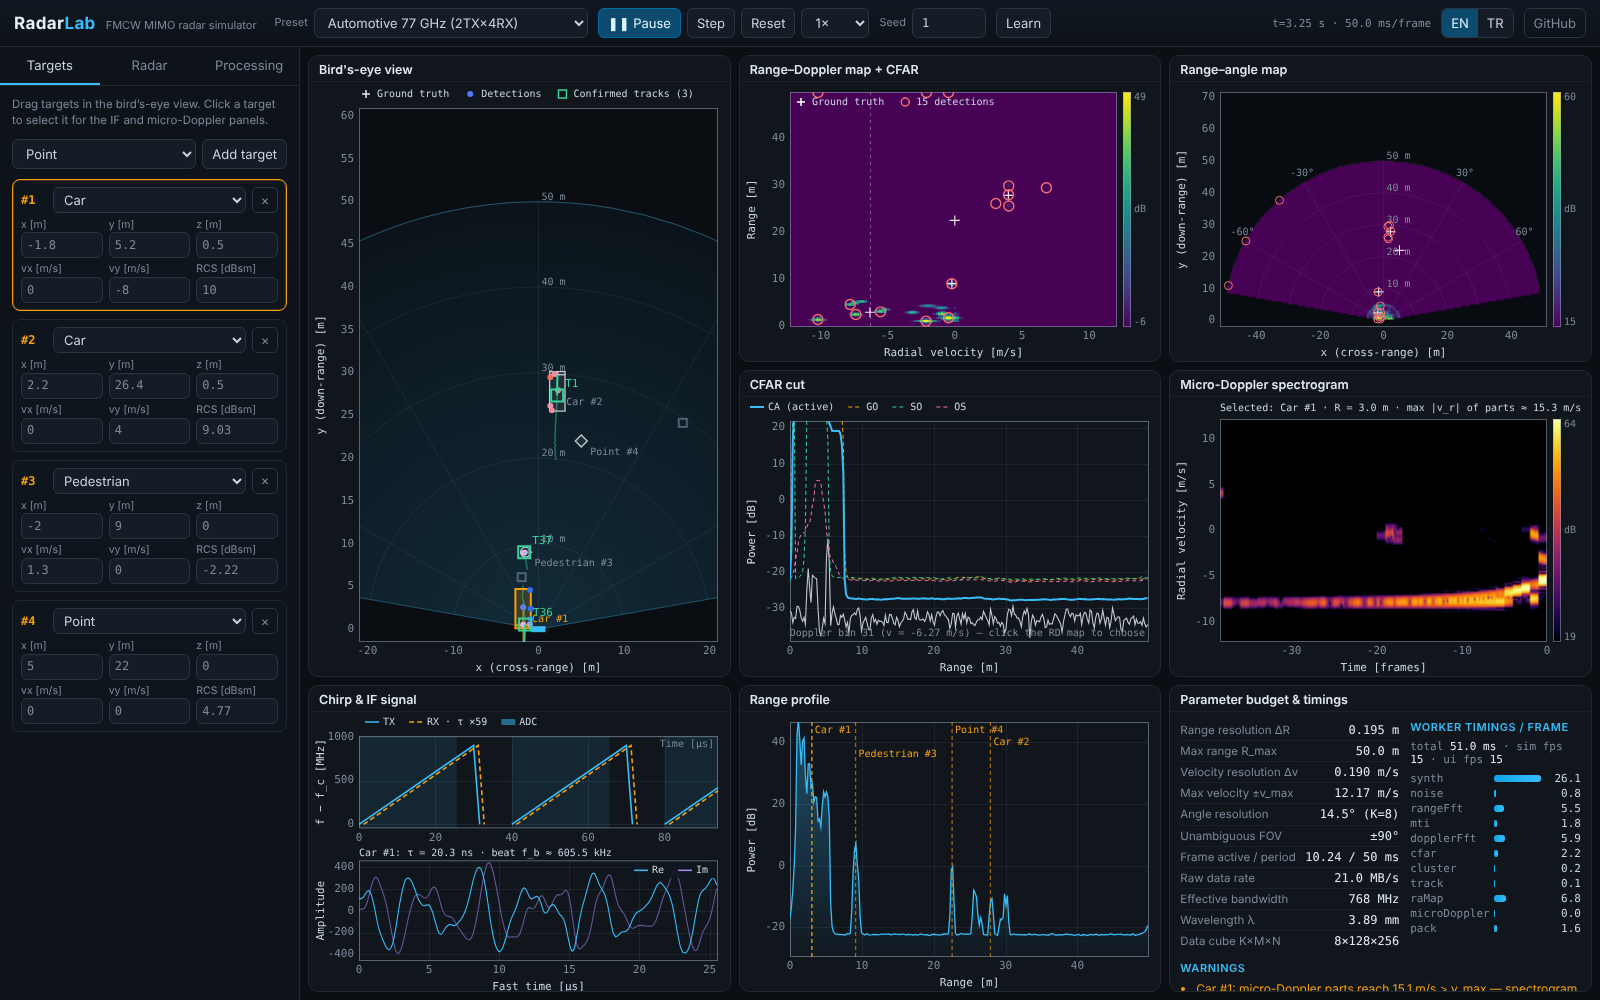
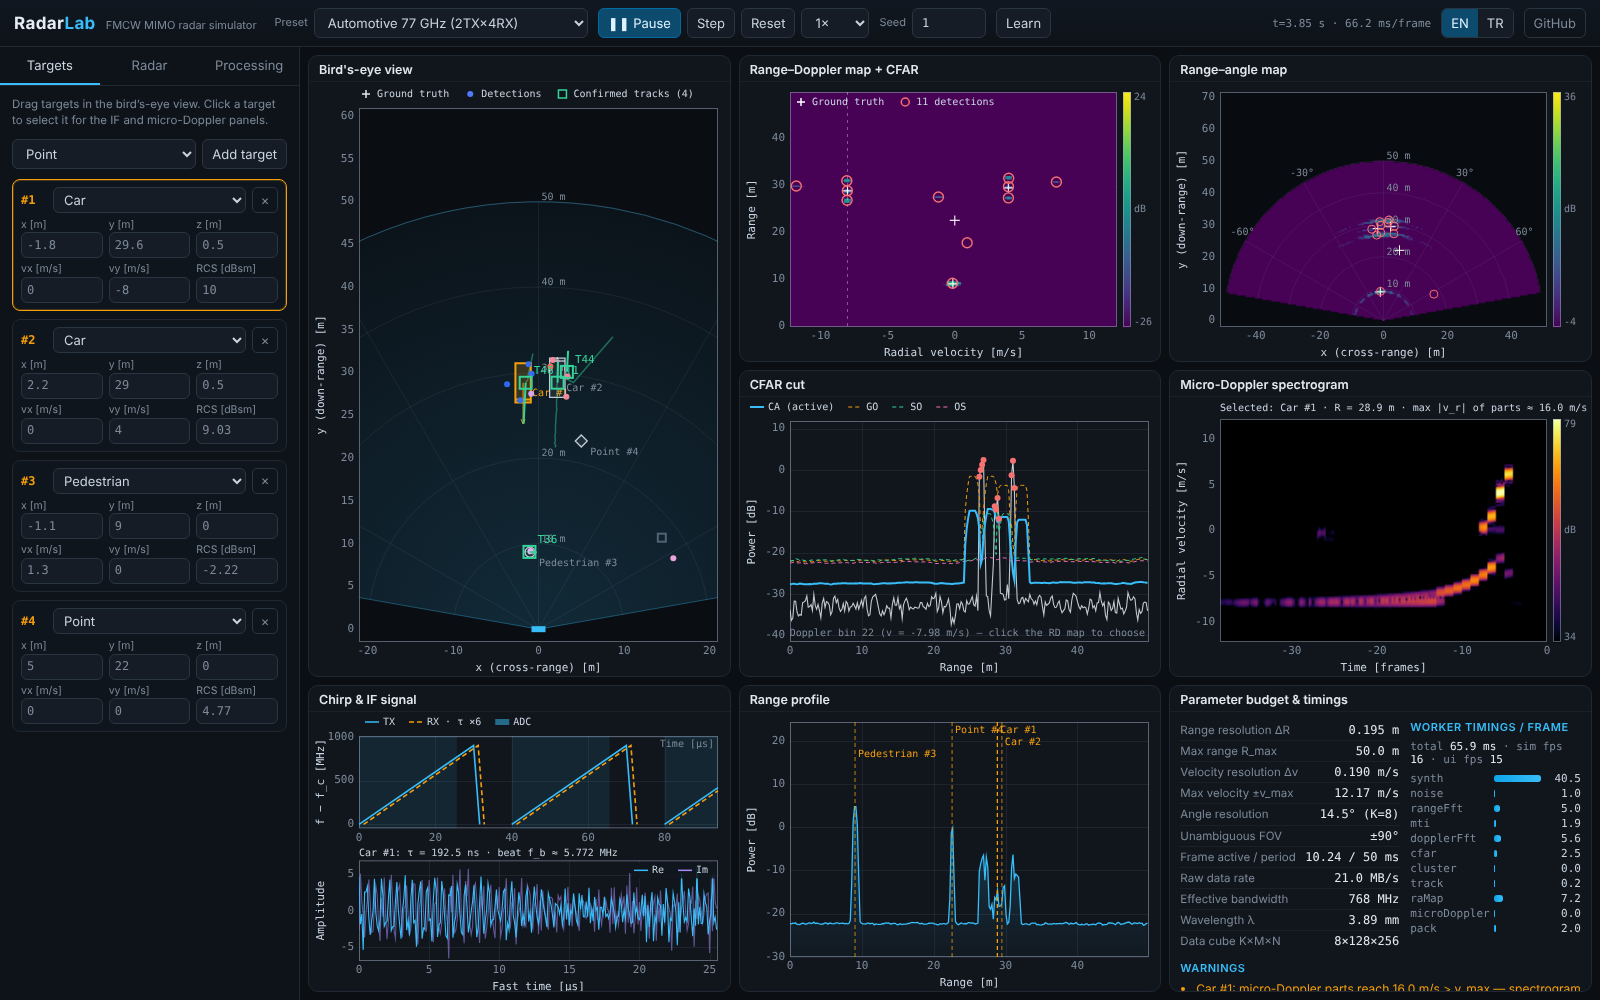
web: +j angle kernel (match reference under brief rev. 1), RA orientation test, refreshed screenshots

diff --git a/web/src/dsp/detect.ts b/web/src/dsp/detect.ts
@@ -195,8 +195,10 @@ export class Detector {
         if (slot < 0) continue;
         const xr = rdRe[idx],
           xi = rdIm[idx];
+        // conjugated snapshot + forward FFT ≡ +j kernel Σ g_k e^{+j2πka/A}, matched to the
+        // −j steering vector of brief rev. 1 (same as the Python reference): θ > 0 → bin > A/2
         re[slot] = xr * c - xi * s;
-        im[slot] = xr * s + xi * c;
+        im[slot] = -(xr * s + xi * c);
       }
       fft.forward(re, im);
       let bi = 0,
@@ -214,8 +216,7 @@ export class Detector {
       // fftshift: unshifted bin b ↔ shifted (b + A/2) mod A
       let sb = ((bi + A / 2) % A) + off;
       det.angleBin = sb;
-      // negative spatial phase (brief rev. 1) → target at θ > 0 lands at bins below A/2
-      const sinT = Math.max(-1, Math.min(1, -(sb - A / 2) / (A * d.arraySpacing)));
+      const sinT = Math.max(-1, Math.min(1, (sb - A / 2) / (A * d.arraySpacing)));
       const th = Math.asin(sinT);
       det.angleDeg = (th * 180) / Math.PI;
       det.x = det.range * Math.sin(th);
@@ -281,7 +282,8 @@ export class Detector {
       }
       fft.forward(lr, li);
       const base = r * A;
-      for (let a = 0; a < A; a++) out[base + ((a + A / 2) % A)] = Math.max(0, lr[a]);
+      // +j kernel (brief rev. 1): bin a of the +j transform = bin −a of the forward FFT; then fftshift
+      for (let a = 0; a < A; a++) out[base + ((((A - a) % A) + A / 2) % A)] = Math.max(0, lr[a]);
     }
   }
 }

diff --git a/web/tests/chain.test.ts b/web/tests/chain.test.ts
@@ -130,8 +130,8 @@ describe('angle estimation (TDM-MIMO)', () => {
       const m = e.runFrame();
       const best = m.detections.reduce((a, b) => (b.power > a.power ? b : a));
       expect(Math.abs(best.angleDeg - az)).toBeLessThan(1.0);
-      // rev. 1 negative spatial phase: positive angle ↔ angle bin below A/2
-      if (az !== 0) expect(Math.sign(32 - best.angleBin)).toBe(Math.sign(az));
+      // rev. 1: −j steering + +j angle kernel → positive angle ↔ angle bin above A/2
+      if (az !== 0) expect(Math.sign(best.angleBin - 32)).toBe(Math.sign(az));
       if (Math.abs(v) > 5) {
         // without TDM Doppler compensation the estimate is biased
         e.det.dets[0].velocity = 0;
@@ -148,4 +148,17 @@ describe('angle estimation (TDM-MIMO)', () => {
       }
     });
   }
+});
+
+describe('range–angle map orientation', () => {
+  it('peak lies at the target azimuth (θ > 0 → bin > A/2)', () => {
+    const e = engineFor(auto, [pt(20, 30, 5, 2)]);
+    e.runFrame();
+    const A = e.A;
+    const r = Math.round(20 / dA.rangeRes);
+    let best = 0;
+    for (let a = 1; a < A; a++) if (e.raP[r * A + a] > e.raP[r * A + best]) best = a;
+    const sinT = (best - A / 2) / (A * dA.arraySpacing);
+    expect(Math.abs((Math.asin(sinT) * 180) / Math.PI - 30)).toBeLessThan(2.5);
+  });
 });

diff --git a/web/src/ui/panels.ts b/web/src/ui/panels.ts
@@ -521,7 +521,7 @@ export class RAPanel extends CanvasPanel {
           if (y > 0 && r < rMax && r > 0) {
             const sn = x / r;
             if (Math.abs(sn) <= sMax) {
-              const ab = Math.round(A / 2 - sn * A * d.arraySpacing),
+              const ab = Math.round(sn * A * d.arraySpacing + A / 2),
                 rb = Math.round(r / d.rangeRes);
               if (ab >= 0 && ab < A && rb < nR) v = rb * A + ab;
             }
@@ -569,7 +569,7 @@ export class RAPanel extends CanvasPanel {
     const r = Math.hypot(x, y),
       th = (Math.atan2(x, y) * 180) / Math.PI;
     const rb = Math.round(r / f.d.rangeRes),
-      ab = Math.round(f.meta.A / 2 - Math.sin((th * Math.PI) / 180) * f.meta.A * f.d.arraySpacing);
+      ab = Math.round(Math.sin((th * Math.PI) / 180) * f.meta.A * f.d.arraySpacing + f.meta.A / 2);
     const v = rb < f.meta.nR && ab >= 0 && ab < f.meta.A ? f.bufs.raDb[rb * f.meta.A + ab].toFixed(1) + ' dB' : '';
     this.setReadout(`R = ${r.toFixed(1)} m · θ = ${th.toFixed(1)}° ${v ? '· ' + v : ''}`);
   }
